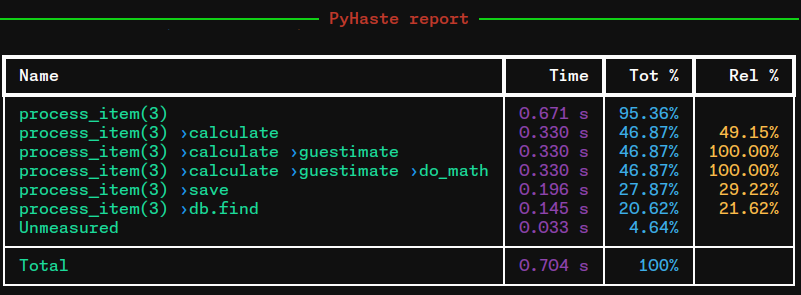
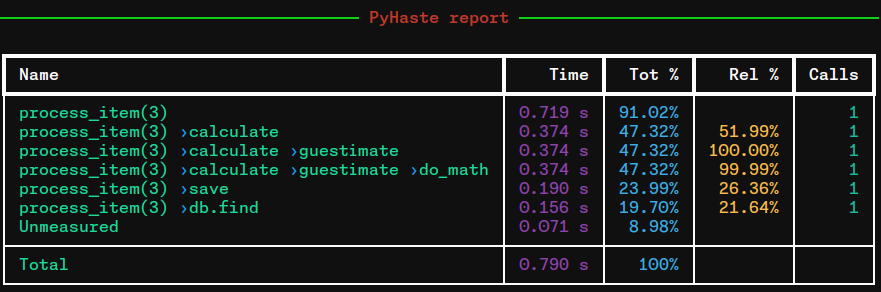
Added calls column

Changed region(s): [[0.0, 0.339, 0.9988, 0.9863], [0.0, 0.1849, 0.9988, 0.3082], [0.0, 0.0308, 0.9988, 0.0925]]

diff --git a/pyhaste/analyzer.py b/pyhaste/analyzer.py
@@ -27,13 +27,15 @@ def sort_items(items: Iterable[Item]):
 
 
 class Analyzer:
-    counters: dict[str, float]
-    total: float
+    counters: dict[str, int]
+    timers: dict[str, float]
+    total_time: float
     nested: list[str]
 
     def __init__(self):
         self.counters = {}
-        self.total = 0.0
+        self.timers = {}
+        self.total_time = 0.0
         self.start_time = None
         self.nested = []
 
@@ -44,14 +46,15 @@ class Analyzer:
             self.start_time = start
 
         self.nested.append(name)
-        counter_name = SEP.join(self.nested)
+        key = SEP.join(self.nested)
         yield
         self.nested.pop()
 
         elapsed = perf_counter() - start
-        self.counters[counter_name] = elapsed + self.counters.get(counter_name, 0.0)
+        self.counters[key] = 1 + self.counters.get(key, 0.0)
+        self.timers[key] = elapsed + self.timers.get(key, 0.0)
         if not self.nested:
-            self.total += elapsed
+            self.total_time += elapsed
 
     def measure_wrap(self, name):
         def decorator(f):
@@ -70,33 +73,38 @@ class Analyzer:
             return ""
 
         parent_name = SEP.join(parts[:-1])
-        parent_total = self.counters[parent_name]
+        parent_total = self.timers[parent_name]
 
         pct = (elapsed / parent_total) * 100
         return f"{pct:.2f}%"
 
     def report(self):
         total_elapsed = perf_counter() - self.start_time
-        self.counters["Unmeasured"] = total_elapsed - self.total
-        self.total += self.counters["Unmeasured"]
+        self.timers["Unmeasured"] = total_elapsed - self.total_time
+        self.total_time += self.timers["Unmeasured"]
 
         tbl = Table()
         tbl.add_column("Name", style="bright_green")
         tbl.add_column("Time", style="bright_magenta", justify="right", no_wrap=True)
         tbl.add_column("Tot %", style="bright_blue", justify="right", no_wrap=True)
         tbl.add_column("Rel %", style="bright_yellow", justify="right", no_wrap=True)
+        tbl.add_column("Calls", style="cyan", justify="right", no_wrap=True)
 
-        for name, elapsed in sort_items(self.counters.items()):
-            pct = (elapsed / self.total) * 100
+        for name, elapsed in sort_items(self.timers.items()):
+            pct = (elapsed / self.total_time) * 100
+            count = ""
+            if name in self.counters:
+                count = f"{self.counters[name]:,.0f}"
             tbl.add_row(
                 " [blue]›[/blue]".join(name.split(SEP)),
                 format_elapsed(elapsed),
                 f"{pct:.2f}%",
                 self.get_parent_pct(name, elapsed),
+                count,
             )
 
         tbl.add_section()
-        tbl.add_row("Total", format_elapsed(self.total), "100%", "")
+        tbl.add_row("Total", format_elapsed(self.total_time), "100%", "", "")
 
         console.print("")
         console.rule("[bold red]PyHaste report", style="green")

diff --git a/pyhaste/test_analyzer.py b/pyhaste/test_analyzer.py
@@ -9,6 +9,6 @@ def test_analyzer():
         time.sleep(0.01)
     time.sleep(0.01)
     analyzer.report()
-    assert analyzer.counters["start"] >= 0.01
-    assert analyzer.counters["Unmeasured"] >= 0.01
-    assert analyzer.counters["Unmeasured"] <= 0.02
+    assert analyzer.timers["start"] >= 0.01
+    assert analyzer.timers["Unmeasured"] >= 0.01
+    assert analyzer.timers["Unmeasured"] <= 0.02

diff --git a/README.md b/README.md
@@ -60,19 +60,19 @@ report()
 ```
 
 ```
-───────────────── PyHaste report ─────────────────
+───────────────────── PyHaste report ─────────────────────
 
-┏━━━━━━━━━━━━━━━━━━━━┳━━━━━━━━━┳━━━━━━━━┳━━━━━━━━┓
-┃ Name               ┃    Time ┃  Tot % ┃  Rel % ┃
-┡━━━━━━━━━━━━━━━━━━━━╇━━━━━━━━━╇━━━━━━━━╇━━━━━━━━┩
-│ task               │ 0.700 s │ 98.58% │        │
-│ task ›process_item │ 0.600 s │ 84.49% │ 85.70% │
-│ task ›prepare_task │ 0.100 s │ 14.09% │ 14.29% │
-│ Unmeasured         │ 0.010 s │  1.42% │        │
-│ task ›find_items   │ 0.000 s │  0.00% │  0.00% │
-├────────────────────┼─────────┼────────┼────────┤
-│ Total              │ 0.710 s │   100% │        │
-└────────────────────┴─────────┴────────┴────────┘
+┏━━━━━━━━━━━━━━━━━━━━┳━━━━━━━━━┳━━━━━━━━┳━━━━━━━━┳━━━━━━━┓
+┃ Name               ┃    Time ┃  Tot % ┃  Rel % ┃ Calls ┃
+┡━━━━━━━━━━━━━━━━━━━━╇━━━━━━━━━╇━━━━━━━━╇━━━━━━━━╇━━━━━━━┩
+│ task               │ 0.700 s │ 98.58% │        │     1 │
+│ task ›process_item │ 0.600 s │ 84.49% │ 85.71% │     3 │
+│ task ›prepare_task │ 0.100 s │ 14.08% │ 14.29% │     1 │
+│ Unmeasured         │ 0.010 s │  1.42% │        │       │
+│ task ›find_items   │ 0.000 s │  0.00% │  0.00% │     1 │
+├────────────────────┼─────────┼────────┼────────┼───────┤
+│ Total              │ 0.710 s │   100% │        │       │
+└────────────────────┴─────────┴────────┴────────┴───────┘
 ```
 
 In case you need more complex analysis, you might benefit from `pyhaste.Analyzer` and creating your own instances, e.g. for measuring time spent on separate tasks in a longer running job:
@@ -98,53 +98,53 @@ for item in [1, 2, 3]:
 ```
 
 ```
-──────────────────────────────── PyHaste report ────────────────────────────────
+──────────────────────────────────── PyHaste report ────────────────────────────────────
 
-┏━━━━━━━━━━━━━━━━━━━━━━━━━━━━━━━━━━━━━━━━━━━━━━━━━┳━━━━━━━━━┳━━━━━━━━┳━━━━━━━━━┓
-┃ Name                                            ┃    Time ┃  Tot % ┃   Rel % ┃
-┡━━━━━━━━━━━━━━━━━━━━━━━━━━━━━━━━━━━━━━━━━━━━━━━━━╇━━━━━━━━━╇━━━━━━━━╇━━━━━━━━━┩
-│ process_item(1)                                 │ 0.235 s │ 95.78% │         │
-│ process_item(1) ›calculate                      │ 0.121 s │ 49.36% │  51.53% │
-│ process_item(1) ›calculate ›guestimate          │ 0.121 s │ 49.36% │ 100.00% │
-│ process_item(1) ›calculate ›guestimate ›do_math │ 0.121 s │ 49.35% │  99.99% │
-│ process_item(1) ›save                           │ 0.071 s │ 29.19% │  30.48% │
-│ process_item(1) ›db.find                        │ 0.042 s │ 17.22% │  17.98% │
-│ Unmeasured                                      │ 0.010 s │  4.22% │         │
-├─────────────────────────────────────────────────┼─────────┼────────┼─────────┤
-│ Total                                           │ 0.245 s │   100% │         │
-└─────────────────────────────────────────────────┴─────────┴────────┴─────────┘
+┏━━━━━━━━━━━━━━━━━━━━━━━━━━━━━━━━━━━━━━━━━━━━━━━━━┳━━━━━━━━━┳━━━━━━━━┳━━━━━━━━━┳━━━━━━━┓
+┃ Name                                            ┃    Time ┃  Tot % ┃   Rel % ┃ Calls ┃
+┡━━━━━━━━━━━━━━━━━━━━━━━━━━━━━━━━━━━━━━━━━━━━━━━━━╇━━━━━━━━━╇━━━━━━━━╇━━━━━━━━━╇━━━━━━━┩
+│ process_item(1)                                 │ 0.219 s │ 93.61% │         │     1 │
+│ process_item(1) ›calculate                      │ 0.121 s │ 51.69% │  55.22% │     1 │
+│ process_item(1) ›calculate ›guestimate          │ 0.121 s │ 51.69% │ 100.00% │     1 │
+│ process_item(1) ›calculate ›guestimate ›do_math │ 0.121 s │ 51.69% │  99.99% │     1 │
+│ process_item(1) ›save                           │ 0.055 s │ 23.66% │  25.28% │     1 │
+│ process_item(1) ›db.find                        │ 0.043 s │ 18.24% │  19.49% │     1 │
+│ Unmeasured                                      │ 0.015 s │  6.39% │         │       │
+├─────────────────────────────────────────────────┼─────────┼────────┼─────────┼───────┤
+│ Total                                           │ 0.234 s │   100% │         │       │
+└─────────────────────────────────────────────────┴─────────┴────────┴─────────┴───────┘
 
-──────────────────────────────── PyHaste report ────────────────────────────────
+──────────────────────────────────── PyHaste report ────────────────────────────────────
 
-┏━━━━━━━━━━━━━━━━━━━━━━━━━━━━━━━━━━━━━━━━━━━━━━━━━┳━━━━━━━━━┳━━━━━━━━┳━━━━━━━━━┓
-┃ Name                                            ┃    Time ┃  Tot % ┃   Rel % ┃
-┡━━━━━━━━━━━━━━━━━━━━━━━━━━━━━━━━━━━━━━━━━━━━━━━━━╇━━━━━━━━━╇━━━━━━━━╇━━━━━━━━━┩
-│ process_item(2)                                 │ 0.505 s │ 95.09% │         │
-│ process_item(2) ›calculate                      │ 0.284 s │ 53.37% │  56.13% │
-│ process_item(2) ›calculate ›guestimate          │ 0.284 s │ 53.37% │ 100.00% │
-│ process_item(2) ›calculate ›guestimate ›do_math │ 0.284 s │ 53.37% │ 100.00% │
-│ process_item(2) ›save                           │ 0.130 s │ 24.45% │  25.71% │
-│ process_item(2) ›db.find                        │ 0.092 s │ 17.26% │  18.16% │
-│ Unmeasured                                      │ 0.026 s │  4.91% │         │
-├─────────────────────────────────────────────────┼─────────┼────────┼─────────┤
-│ Total                                           │ 0.531 s │   100% │         │
-└─────────────────────────────────────────────────┴─────────┴────────┴─────────┘
+┏━━━━━━━━━━━━━━━━━━━━━━━━━━━━━━━━━━━━━━━━━━━━━━━━━┳━━━━━━━━━┳━━━━━━━━┳━━━━━━━━━┳━━━━━━━┓
+┃ Name                                            ┃    Time ┃  Tot % ┃   Rel % ┃ Calls ┃
+┡━━━━━━━━━━━━━━━━━━━━━━━━━━━━━━━━━━━━━━━━━━━━━━━━━╇━━━━━━━━━╇━━━━━━━━╇━━━━━━━━━╇━━━━━━━┩
+│ process_item(2)                                 │ 0.474 s │ 92.57% │         │     1 │
+│ process_item(2) ›calculate                      │ 0.211 s │ 41.26% │  44.57% │     1 │
+│ process_item(2) ›calculate ›guestimate          │ 0.211 s │ 41.26% │ 100.00% │     1 │
+│ process_item(2) ›calculate ›guestimate ›do_math │ 0.211 s │ 41.26% │  99.99% │     1 │
+│ process_item(2) ›save                           │ 0.146 s │ 28.44% │  30.72% │     1 │
+│ process_item(2) ›db.find                        │ 0.117 s │ 22.86% │  24.70% │     1 │
+│ Unmeasured                                      │ 0.038 s │  7.43% │         │       │
+├─────────────────────────────────────────────────┼─────────┼────────┼─────────┼───────┤
+│ Total                                           │ 0.512 s │   100% │         │       │
+└─────────────────────────────────────────────────┴─────────┴────────┴─────────┴───────┘
 
-──────────────────────────────── PyHaste report ────────────────────────────────
+──────────────────────────────────── PyHaste report ────────────────────────────────────
 
-┏━━━━━━━━━━━━━━━━━━━━━━━━━━━━━━━━━━━━━━━━━━━━━━━━━┳━━━━━━━━━┳━━━━━━━━┳━━━━━━━━━┓
-┃ Name                                            ┃    Time ┃  Tot % ┃   Rel % ┃
-┡━━━━━━━━━━━━━━━━━━━━━━━━━━━━━━━━━━━━━━━━━━━━━━━━━╇━━━━━━━━━╇━━━━━━━━╇━━━━━━━━━┩
-│ process_item(3)                                 │ 0.671 s │ 95.36% │         │
-│ process_item(3) ›calculate                      │ 0.330 s │ 46.87% │  49.15% │
-│ process_item(3) ›calculate ›guestimate          │ 0.330 s │ 46.87% │ 100.00% │
-│ process_item(3) ›calculate ›guestimate ›do_math │ 0.330 s │ 46.87% │ 100.00% │
-│ process_item(3) ›save                           │ 0.196 s │ 27.87% │  29.22% │
-│ process_item(3) ›db.find                        │ 0.145 s │ 20.62% │  21.62% │
-│ Unmeasured                                      │ 0.033 s │  4.64% │         │
-├─────────────────────────────────────────────────┼─────────┼────────┼─────────┤
-│ Total                                           │ 0.704 s │   100% │         │
-└─────────────────────────────────────────────────┴─────────┴────────┴─────────┘
+┏━━━━━━━━━━━━━━━━━━━━━━━━━━━━━━━━━━━━━━━━━━━━━━━━━┳━━━━━━━━━┳━━━━━━━━┳━━━━━━━━━┳━━━━━━━┓
+┃ Name                                            ┃    Time ┃  Tot % ┃   Rel % ┃ Calls ┃
+┡━━━━━━━━━━━━━━━━━━━━━━━━━━━━━━━━━━━━━━━━━━━━━━━━━╇━━━━━━━━━╇━━━━━━━━╇━━━━━━━━━╇━━━━━━━┩
+│ process_item(3)                                 │ 0.719 s │ 91.02% │         │     1 │
+│ process_item(3) ›calculate                      │ 0.374 s │ 47.32% │  51.99% │     1 │
+│ process_item(3) ›calculate ›guestimate          │ 0.374 s │ 47.32% │ 100.00% │     1 │
+│ process_item(3) ›calculate ›guestimate ›do_math │ 0.374 s │ 47.32% │  99.99% │     1 │
+│ process_item(3) ›save                           │ 0.190 s │ 23.99% │  26.36% │     1 │
+│ process_item(3) ›db.find                        │ 0.156 s │ 19.70% │  21.64% │     1 │
+│ Unmeasured                                      │ 0.071 s │  8.98% │         │       │
+├─────────────────────────────────────────────────┼─────────┼────────┼─────────┼───────┤
+│ Total                                           │ 0.790 s │   100% │         │       │
+└─────────────────────────────────────────────────┴─────────┴────────┴─────────┴───────┘
 ```
 
 ## Development
